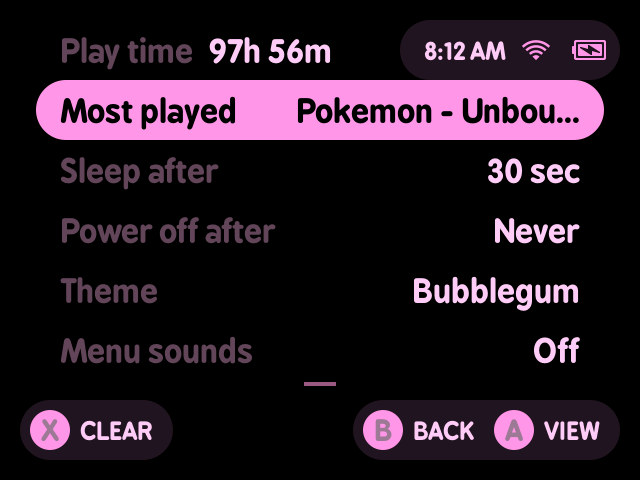
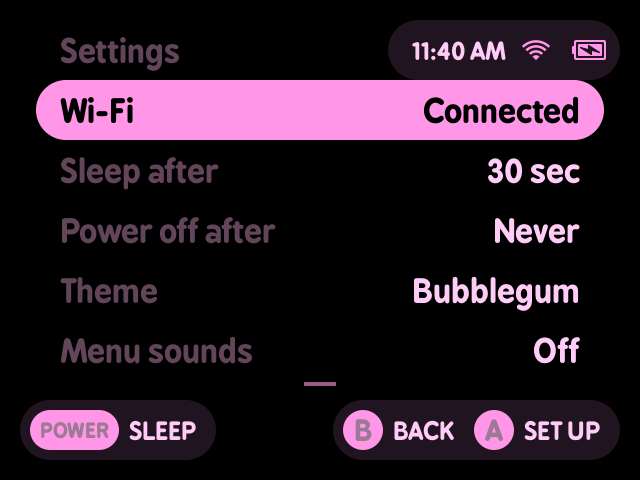
Play Time in Tools, Wi-Fi in the settings
- Tools lists Play Time: the Most Played ranking, with the total played as
  it opens. After a game started from it, B goes back through Tools
- The settings' first row is Wi-Fi: the network you're on (or Off), and A
  opens the Wi-Fi setup, which no longer shows in Tools
- The settings header reads Settings; play time and clearing it left there
- The Wi-Fi prompts in other tools point to Settings > Wi-Fi
- The release script numbers a second release on the same day after the first
- READMEs and the settings screenshot follow

diff --git a/workspace/all/minui/minui.c b/workspace/all/minui/minui.c
@@ -21,6 +21,9 @@
 #include "defines.h"
 #include "api.h"
 #include "utils.h"
+
+#define TOOLS_DIR SDCARD_PATH "/Tools/" PLATFORM
+#define PLAY_TIME_NAME "Play Time" // Most Played, as it's listed in Tools
 #include "keyboard.h"
 #include "bgm.h"
 
@@ -1004,8 +1007,25 @@ static void toggleFavorite(void) {
 ///////////////////////////////////////
 
 #define MOST_PLAYED_COUNT 10
-static char info_top_name[256] = ""; // shown on the info screen's Most played row
-static int most_played_from_info = 0; // B in Most Played returns to the info screen
+#define WIFI_PAK TOOLS_DIR "/Wi-Fi.pak/launch.sh" // opened from the settings' Wi-Fi row
+#define WIFI_ON_PATH SHARED_USERDATA_PATH "/.minui/wifi-on" // set while Wi-Fi is on (see wifi.sh and launch.sh)
+#define WIFI_CREDS_PATH SHARED_USERDATA_PATH "/wifi.txt"
+static char wifi_status[128] = "Off"; // the settings' Wi-Fi row, read when they open and when the connection changes
+static void getWifiStatus(char* out, size_t size) { // the network's name when connected, else Off (or Not connected)
+	if (PLAT_isOnline()) {
+		char creds[512] = "";
+		if (exists(WIFI_CREDS_PATH)) getFile(WIFI_CREDS_PATH, creds, sizeof(creds));
+		char* ssid = strstr(creds, "ssid=");
+		if (ssid) {
+			ssid += 5;
+			int len = strcspn(ssid, "\r\n");
+			snprintf(out, size, "%.*s", len, ssid);
+			if (out[0]) return;
+		}
+		snprintf(out, size, "Connected");
+	}
+	else snprintf(out, size, exists(WIFI_ON_PATH) ? "Not connected" : "Off");
+}
 
 static void formatShortPlayTime(int seconds, char* out) { // minutes stop mattering past 10 hours and would crowd the hint bar
 	if (seconds>=10*3600) sprintf(out, "%ih", seconds/3600);
@@ -1246,8 +1266,7 @@ static Array* getRoot(void) {
 	}
 	Array_free(entries); // root now owns entries' entries
 	
-	char* tools_path = SDCARD_PATH "/Tools/" PLATFORM;
-	if (exists(tools_path) && !simple_mode) Array_push(root, Entry_new(tools_path, ENTRY_DIR));
+	if (exists(TOOLS_DIR) && !simple_mode) Array_push(root, Entry_new(TOOLS_DIR, ENTRY_DIR));
 	
 	return root;
 }
@@ -1436,6 +1455,20 @@ static Array* getEntries(char* path){
 		}
 	}
 	else addEntries(entries, path); // just a subfolder
+	
+	if (exactMatch(path, TOOLS_DIR)) {
+		for (int i=0; i<entries->count; i++) { // the Wi-Fi tool opens from the settings' Wi-Fi row instead
+			Entry* entry = entries->items[i];
+			if (suffixMatch("/Wi-Fi.pak", entry->path)) {
+				Entry_free(Array_remove(entries, i));
+				break;
+			}
+		}
+		Entry* play_time = Entry_new(FAUX_MOSTPLAYED_PATH, ENTRY_DIR);
+		free(play_time->name);
+		play_time->name = strdup(PLAY_TIME_NAME);
+		Array_push(entries, play_time);
+	}
 	
 	EntryArray_sort(entries);
 	return entries;
@@ -1854,6 +1887,7 @@ static void closeDirectory(void) {
 	restore_relative = top->selected;
 }
 
+static void showFlash(char* text, int big);
 static void Entry_open(Entry* self) {
 	recent_alias = self->name;  // yiiikes
 	if (self->type==ENTRY_ROM) {
@@ -1876,6 +1910,15 @@ static void Entry_open(Entry* self) {
 	}
 	else if (self->type==ENTRY_DIR) {
 		openDirectory(self->path, 1);
+		if (exactMatch(self->path, FAUX_MOSTPLAYED_PATH)) { // Play Time: everything played, all told
+			int total_seconds, top_seconds;
+			char top_path[MAX_PATH], played[32], line[64];
+			if (getPlayTimeTotals(&total_seconds, top_path, &top_seconds)) {
+				formatPlayTime(total_seconds, played);
+				snprintf(line, sizeof(line), "%s played in all", played);
+				showFlash(line, 0);
+			}
+		}
 	}
 }
 
@@ -1903,9 +1946,18 @@ static void loadLast(void) { // call after loading root directory
 	getFile(from, last_path, 256);
 	LOG_info("last place: %s%s\n", last_path, from==LAST_BACKUP_PATH ? " (from the card copy: /tmp had lost it)" : "");
 	
-	if (prefixMatch(FAUX_MOSTPLAYED_PATH "/", last_path)) { // not in the root, so reopen it directly
+	if (prefixMatch(FAUX_MOSTPLAYED_PATH "/", last_path)) { // in Tools (as Play Time), so through there
+		Directory* root = stack->items[0];
+		int tools = EntryArray_indexOf(root->entries, TOOLS_DIR);
+		if (tools!=-1) {
+			root->selected = tools;
+			Directory_reindex(root);
+			openDirectory(TOOLS_DIR, 0);
+			int play_time = EntryArray_indexOf(top->entries, FAUX_MOSTPLAYED_PATH);
+			if (play_time!=-1) top->selected = play_time;
+			Directory_reindex(top);
+		}
 		openDirectory(FAUX_MOSTPLAYED_PATH, 0);
-		most_played_from_info = 1;
 		char* filename = strrchr(last_path, '/');
 		for (int i=0; i<top->entries->count; i++) {
 			Entry* entry = top->entries->items[i];
@@ -4296,7 +4348,7 @@ int main (int argc, char *argv[]) {
 	int dirty = 1;
 	int scrolling = 0;
 	int show_version = 0;
-	#define INFO_ROW_MOST_PLAYED 0 // then one row per power timer
+	#define INFO_ROW_WIFI 0 // then one row per power timer
 	#define INFO_ROW_THEME (1 + PWR_TIMER_COUNT)
 	#define INFO_ROW_SOUNDS (2 + PWR_TIMER_COUNT)
 	#define INFO_ROW_MUSIC (3 + PWR_TIMER_COUNT)
@@ -4305,8 +4357,6 @@ int main (int argc, char *argv[]) {
 	#define INFO_ROWS_SHOWN 5 // the rest scroll into view
 	int info_row = 0; // selected row on the version screen
 	int info_start = 0; // first row shown
-	uint32_t clear_armed_at = 0; // first X press on Most played, a second one within CLEAR_CONFIRM_MS clears
-	#define CLEAR_CONFIRM_MS 3000
 	int show_setting = 0; // 1=brightness,2=volume
 	int was_online = PLAT_isOnline();
 	
@@ -4374,14 +4424,13 @@ int main (int argc, char *argv[]) {
 		}
 		
 		int is_online = PLAT_isOnline();
-		if (was_online!=is_online) dirty = 1;
+		if (was_online!=is_online) {
+			dirty = 1;
+			if (show_version) getWifiStatus(wifi_status, sizeof(wifi_status));
+		}
 		was_online = is_online;
 		
 		if (show_version) {
-			if (clear_armed_at && (now-clear_armed_at>=CLEAR_CONFIRM_MS || info_row!=INFO_ROW_MOST_PLAYED)) {
-				clear_armed_at = 0;
-				dirty = 1;
-			}
 			if (PAD_justPressed(BTN_B) || PAD_tappedMenu(now)) {
 				show_version = 0;
 				dirty = 1;
@@ -4434,25 +4483,16 @@ int main (int argc, char *argv[]) {
 				SFX_play(SFX_TICK);
 				dirty = 1;
 			}
-			else if (info_row==INFO_ROW_MOST_PLAYED && PAD_justPressed(BTN_X) && info_top_name[0]) {
-				if (clear_armed_at && now-clear_armed_at<CLEAR_CONFIRM_MS) {
-					// kept as a backup rather than deleted so a mistaken clear can be undone by hand
-					rename(PLAYTIME_PATH, PLAYTIME_PATH ".bak");
-					sync();
-					clear_armed_at = 0;
-					info_top_name[0] = '\0';
-					if (version) SDL_FreeSurface(version);
-					version = NULL; // rebuilt with the cleared play time
+			else if (info_row==INFO_ROW_WIFI && PAD_justPressed(BTN_A)) { // the Wi-Fi tool, then back here
+				if (exists(WIFI_PAK)) {
+					SFX_play(SFX_CONFIRM);
+					if (top->entries->count>0) saveLast(((Entry*)top->entries->items[top->selected])->path);
+					char pak[MAX_PATH], cmd[MAX_PATH*2];
+					strcpy(pak, WIFI_PAK);
+					snprintf(cmd, sizeof(cmd), "'%s'", escapeSingleQuotes(pak));
+					queueNext(cmd);
 				}
-				else clear_armed_at = now;
-				dirty = 1;
-			}
-			else if (info_row==INFO_ROW_MOST_PLAYED && PAD_justPressed(BTN_A) && info_top_name[0]) {
-				show_version = 0;
-				if (!HAS_POWER_BUTTON && !simple_mode) PWR_disableSleep();
-				most_played_from_info = 1;
-				openDirectory(FAUX_MOSTPLAYED_PATH, 0);
-				if (top->entries->count>0) readyResume(top->entries->items[top->selected]);
+				else showFlash("The Wi-Fi tool isn't installed", 0);
 				dirty = 1;
 			}
 			else if (info_row==INFO_ROW_THEME && (PAD_justRepeated(BTN_LEFT) || PAD_justRepeated(BTN_RIGHT))) {
@@ -4465,7 +4505,7 @@ int main (int argc, char *argv[]) {
 				version = NULL; // its text is drawn in the theme's colors
 				dirty = 1;
 			}
-			else if (info_row>INFO_ROW_MOST_PLAYED && info_row<INFO_ROW_THEME && (PAD_justRepeated(BTN_LEFT) || PAD_justRepeated(BTN_RIGHT))) { // power timers
+			else if (info_row>INFO_ROW_WIFI && info_row<INFO_ROW_THEME && (PAD_justRepeated(BTN_LEFT) || PAD_justRepeated(BTN_RIGHT))) { // power timers
 				// clamped rather than wrapped so holding left/right can't jump to Never by accident
 				int timer = info_row - 1;
 				int index = PWR_getTimer(timer) + (PAD_justRepeated(BTN_RIGHT) ? 1 : -1);
@@ -4479,6 +4519,7 @@ int main (int argc, char *argv[]) {
 		else {
 			if (PAD_tappedMenu(now)) {
 				show_version = 1;
+				getWifiStatus(wifi_status, sizeof(wifi_status));
 				dirty = 1;
 				SFX_play(SFX_CONFIRM);
 				if (!HAS_POWER_BUTTON && !simple_mode) PWR_enableSleep();
@@ -4729,13 +4770,7 @@ int main (int argc, char *argv[]) {
 			else if (PAD_justPressed(BTN_B) && stack->count>1) {
 				SFX_play(SFX_BACK);
 				random_everywhere = 0;
-				int from_most_played = exactMatch(top->path, FAUX_MOSTPLAYED_PATH);
 				closeDirectory();
-				if (from_most_played && most_played_from_info) {
-					most_played_from_info = 0;
-					show_version = 1;
-					if (!HAS_POWER_BUTTON && !simple_mode) PWR_enableSleep();
-				}
 				total = top->entries->count;
 				dirty = 1;
 				// can_resume = 0;
@@ -4841,51 +4876,7 @@ int main (int argc, char *argv[]) {
 			
 			if (show_version) {
 				if (!version) {
-					// minui restarts after every game so reading play time once here stays current
-					char played[32] = "None yet";
-					char top_path[MAX_PATH];
-					int total_seconds, top_seconds;
-					if (getPlayTimeTotals(&total_seconds, top_path, &top_seconds)) {
-						formatPlayTime(total_seconds, played);
-						if (top_path[0]) getDisplayName(top_path, info_top_name);
-					}
-					
-					// TODO: not sure if I want bare PLAT_* calls here
-					// the commit in version.txt is the stock release's, not this build's, so it's left out
-					char* keys[] = { "Play time" }; // release and model left off to make room for the settings rows
-					char* values[] = { played };
-					int line_count = 1;
-					
-					int l_width = 0;
-					for (int i=0; i<line_count; i++) {
-						int w;
-						TTF_SizeUTF8(font.large, keys[i], &w, NULL);
-						if (w>l_width) l_width = w;
-					}
-					int x = l_width + SCALE1(8);
-					int max_r_width = screen->w - SCALE1(PADDING*2 + BUTTON_PADDING*2) - x;
-					
-					SDL_Surface* key_txts[4];
-					SDL_Surface* val_txts[4];
-					int r_width = 0;
-					for (int i=0; i<line_count; i++) {
-						char value[256];
-						GFX_truncateText(font.large, values[i], value, max_r_width, 0);
-						key_txts[i] = TTF_RenderUTF8_Blended(font.large, keys[i], COLOR_DARK_TEXT);
-						val_txts[i] = TTF_RenderUTF8_Blended(font.large, value, COLOR_WHITE);
-						if (val_txts[i]->w>r_width) r_width = val_txts[i]->w;
-					}
-					
-					#define VERSION_LINE_HEIGHT 18 // two lines plus four rows fill the space between the top and bottom bars
-					int w = x + r_width;
-					int h = SCALE1(VERSION_LINE_HEIGHT*(line_count-1)) + val_txts[line_count-1]->h; // room for the last line's descenders
-					version = SDL_CreateRGBSurface(0,w,h,16,0,0,0,0);
-					for (int i=0; i<line_count; i++) {
-						SDL_BlitSurface(key_txts[i], NULL, version, &(SDL_Rect){0,SCALE1(VERSION_LINE_HEIGHT*i)});
-						SDL_BlitSurface(val_txts[i], NULL, version, &(SDL_Rect){x,SCALE1(VERSION_LINE_HEIGHT*i)});
-						SDL_FreeSurface(key_txts[i]);
-						SDL_FreeSurface(val_txts[i]);
-					}
+					version = TTF_RenderUTF8_Blended(font.large, "Settings", COLOR_DARK_TEXT); // (play time is in Tools now)
 				}
 				// most played and the power timers sit under the version info, the whole block centered
 				int rows_w = MAX(version->w, SCALE1(260));
@@ -4911,12 +4902,11 @@ int main (int argc, char *argv[]) {
 					}
 					char* name;
 					char value[256];
-					if (i==INFO_ROW_MOST_PLAYED) {
-						name = "Most played";
+					if (i==INFO_ROW_WIFI) {
+						name = "Wi-Fi";
 						int name_w;
 						TTF_SizeUTF8(font.large, name, &name_w, NULL);
-						char* shown = clear_armed_at ? "Press X again" : (info_top_name[0] ? info_top_name : "None yet");
-						GFX_truncateText(font.large, shown, value, rows_w - name_w - SCALE1(BUTTON_PADDING*2), 0);
+						GFX_truncateText(font.large, wifi_status, value, rows_w - name_w - SCALE1(BUTTON_PADDING*2), 0);
 					}
 					else if (i==INFO_ROW_THEME) {
 						name = "Theme";
@@ -4956,7 +4946,7 @@ int main (int argc, char *argv[]) {
 
 				// buttons (duped and trimmed from below)
 				int right_w = 0;
-				if (info_row==INFO_ROW_MOST_PLAYED && info_top_name[0]) right_w = GFX_blitButtonGroup((char*[]){ "B","BACK", "A","VIEW", NULL }, 1, screen, 1);
+				if (info_row==INFO_ROW_WIFI) right_w = GFX_blitButtonGroup((char*[]){ "B","BACK", "A","SET UP", NULL }, 1, screen, 1);
 				else if (info_row==INFO_ROW_MUSIC) right_w = GFX_blitButtonGroup((char*[]){ "B","BACK", "A",BGM_isEnabled() ? "OFF" : "ON", NULL }, 1, screen, 1);
 				else if (info_row==INFO_ROW_CLOCK) right_w = GFX_blitButtonGroup((char*[]){ "B","BACK", "A","SET TIME", NULL }, 1, screen, 1);
 				else right_w = GFX_blitButtonGroup((char*[]){ "B","BACK",  NULL }, 0, screen, 1);
@@ -4975,7 +4965,6 @@ int main (int argc, char *argv[]) {
 					SDL_BlitSurface(text, NULL, screen, &(SDL_Rect){ SCALE1(PADDING + BUTTON_PADDING), pill_y + (SCALE1(PILL_SIZE) - text->h) / 2 });
 					SDL_FreeSurface(text);
 				}
-				else if (info_row==INFO_ROW_MOST_PLAYED && info_top_name[0]) GFX_blitButtonGroup((char*[]){ "X","CLEAR", NULL }, 0, screen, 0);
 				else GFX_blitButtonGroup((char*[]){ BTN_SLEEP==BTN_POWER?"POWER":"MENU","SLEEP",  NULL }, 0, screen, 0);
 
 				flash_gpu = 0;
@@ -5078,6 +5067,7 @@ int main (int argc, char *argv[]) {
 				else {
 					// TODO: for some reason screen's dimensions end up being 0x0 in GFX_blitMessage...
 					if (inSwitcher()) GFX_blitMessage(font.small, "No games pinned yet\n\nHold SELECT on a game in a list,\nor press X in a game's menu", screen, &(SDL_Rect){0,0,screen->w,screen->h});
+					else if (exactMatch(top->path, FAUX_MOSTPLAYED_PATH)) GFX_blitMessage(font.small, "No play time yet\n\nPlay a game and it shows up here", screen, &(SDL_Rect){0,0,screen->w,screen->h});
 					else GFX_blitMessage(font.large, "Empty folder", screen, &(SDL_Rect){0,0,screen->w,screen->h}); //, NULL);
 				}
 			

diff --git a/workspace/all/common/wifi_ask.c b/workspace/all/common/wifi_ask.c
@@ -1,4 +1,4 @@
-// "Turn on Wi-Fi?" for tools that need the internet, doing what Tools > Wi-Fi does to connect
+// "Turn on Wi-Fi?" for tools that need the internet, doing what the Wi-Fi setup (Settings > Wi-Fi) does to connect
 
 #include <stdio.h>
 #include <stdlib.h>
@@ -53,7 +53,7 @@ int WIFI_offer(SDL_Surface* screen, char* why) {
 	savedNetwork(ssid, sizeof(ssid));
 	char message[512];
 	if (!ssid[0]) {
-		snprintf(message, sizeof(message), "%s\nNo Wi-Fi network is saved yet:\njoin one in Tools > Wi-Fi first", why);
+		snprintf(message, sizeof(message), "%s\nNo Wi-Fi network is saved yet:\njoin one in Settings > Wi-Fi first", why);
 		ask(screen, message, (char*[]){ "A","OKAY", NULL });
 		return 0;
 	}
@@ -70,7 +70,7 @@ int WIFI_offer(SDL_Surface* screen, char* why) {
 	unlink(WIFI_FLAG_PATH);
 	sync();
 	system("wifi.sh down >/dev/null 2>&1");
-	snprintf(message, sizeof(message), "Couldn't connect to %s\nCheck it in Tools > Wi-Fi", ssid);
+	snprintf(message, sizeof(message), "Couldn't connect to %s\nCheck it in Settings > Wi-Fi", ssid);
 	ask(screen, message, (char*[]){ "A","OKAY", NULL });
 	return 0;
 }

diff --git a/README.md b/README.md
@@ -50,7 +50,7 @@ were taken by the A30 itself, border and LCD grid included.
 | <img src="github/screenshots/box-art-download.png" width="320" alt="Downloading box art"> | <img src="github/screenshots/box-art-picker.png" width="320" alt="Box art picker"> |
 | **Box art** downloaded on the device | Every match side by side with yours, to pick from |
 | <img src="github/screenshots/game-menu.png" width="320" alt="Game menu"> | <img src="github/screenshots/settings.png" width="320" alt="Settings"> |
-| **Game menu**: core, box art, rename, delete | **Settings**: play time, themes, sounds, clock, music |
+| **Game menu**: core, box art, rename, delete | **Settings**: Wi-Fi, timers, themes, sounds, music, clock |
 | <img src="github/screenshots/ingame-gbc-native.jpg" width="320" alt="Game Boy Color native border"> | <img src="github/screenshots/ingame-gba-grid.jpg" width="320" alt="Game Boy Advance with LCD grid"> |
 | **Native borders**: the Kiwi lime Game Boy Color | **LCD grid** and border on the GBA |
 | <img src="github/screenshots/most-played.png" width="320" alt="Most Played"> | <img src="github/screenshots/ingame-ps.jpg" width="320" alt="PlayStation"> |
@@ -81,7 +81,8 @@ were taken by the A30 itself, border and LCD grid included.
 - **Preconfigured looks**: LCD grid and ghosting on handhelds, scanlines on TV consoles, Game Boy Pocket greys,
   color correction for GBC and GBA
 - **Auto CPU speed**: each game runs at the lowest speed that keeps it smooth, and remembers what it needed
-- **Wi-Fi** with an on-screen keyboard, offered automatically when a tool needs it
+- **Wi-Fi** in the settings: scan, pick a network and type its password on the on-screen keyboard. Choose whether
+  it connects at startup, and tools that need the internet offer to turn it on
 - **Built for speed**: tuned until the A30's menus feel instant. They're GPU drawn, art decodes ahead of you on
   its own thread, the CPU boosts the instant you touch a button, and saving and the game switcher are quick
 - **Efficient sleep**: the CPU drops to a crawl, audio and Wi-Fi switch off, the device lasts far longer asleep
@@ -133,9 +134,8 @@ kept.
 MinUI+ keeps track of how long you play every game, automatically, from the moment it starts:
 
 - **In the pause menu**: the game's total play time, this session, how many sessions, and your average session.
-- **Most Played**: every game you've played, ranked by hours, with its box art, its total and its average session.
-  Open it from the settings (Most played, A).
-- **In the settings**: your total play time across everything, and the game you've played most.
+- **Play Time** (in Tools): every game you've played, ranked by hours, with its box art, its total and its average
+  session, and your total across everything as it opens.
 - **Recently Played** is sorted by when you actually last played, and the time follows a game through a rename.
 
 
@@ -198,7 +198,7 @@ of where you left it. A picks a game up from that exact moment. In a game, holdi
 
 ### Settings (tap MENU)
 
-- **Play time** in total, and **Most played** (A opens the full list, X twice clears it)
+- **Wi-Fi**: the network you're on (or Off); A opens the Wi-Fi setup to scan, connect, or switch it off
 - **Sleep after** and **Power off after** timers
 - **Theme**: several color themes for the whole interface
 - **Menu sounds**: subtle clicks for moving, opening and going back
@@ -293,8 +293,7 @@ Everything can be changed per system or per game in the pause menu's Options, li
 
 ## Tools
 
-- **Wi-Fi**: scan, pick a network, type its password on the keyboard, connect. Choose whether it connects at
-  startup. Tools that need the internet offer to turn it on.
+- **Play Time**: every game ranked by the hours you've put in (see [Play time](#play-time)).
 - **RetroAchievements**: sign in, switch hardcore on or off, and sync your games' achievements and badges for
   offline play.
 - **Box Art**: downloads covers for every game missing one from the libretro thumbnail library (or replaces the
@@ -366,7 +365,7 @@ Everything on screen has a button hint. These are the ones you won't see:
 | `Saves/<TAG>` | In-game saves |
 | `BGM` | Music for the menus: mp3, ogg, flac or wav |
 | `Borders` | Screen borders, `<TAG>.png` and `<TAG>-native.png` |
-| `Tools` | Wi-Fi, RetroAchievements, Box Art, Controls and more |
+| `Tools` | Play Time, RetroAchievements, Box Art, Controls and more (Wi-Fi is in the settings) |
 | `.userdata` | Settings, save states, achievements, play time, logs (`.userdata/my282/logs`) |
 
 ## Building
